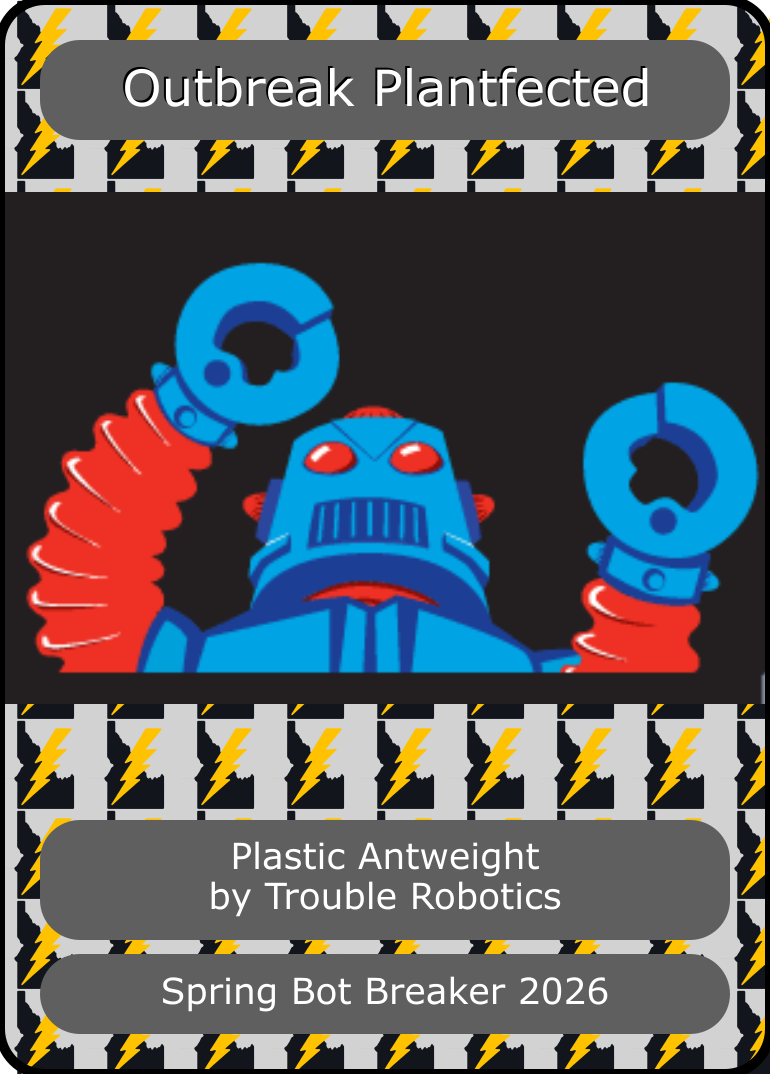
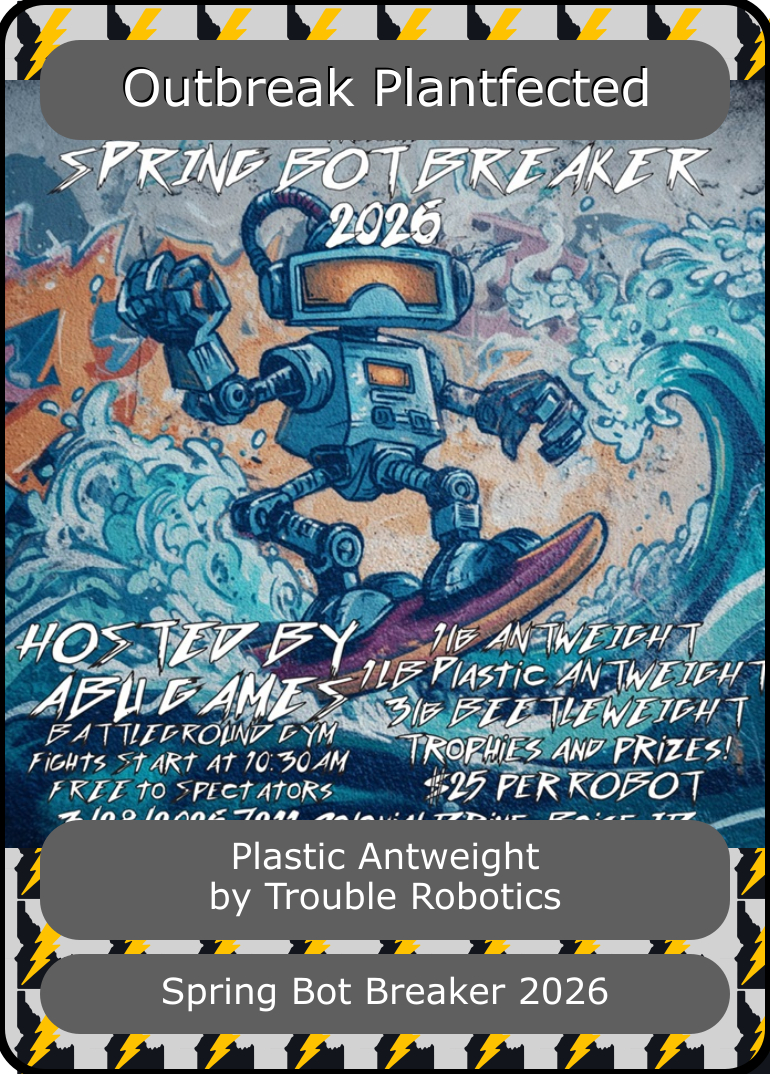
sbb

diff --git a/cards/cards/IRCL_TTDB.md b/cards/cards/IRCL_TTDB.md
@@ -199,7 +199,7 @@ relates:has_bot>@LAT-30LON30,has_bot>@LAT-15LON70,has_bot>@LAT0LON110,has_bot>@L
 - Card image: ![Black Talon](Spring_Bot_Breaker_2026/Black_Talon.png)
 - Weight class: Full Combat Antweight
 - Team: Trouble Robotics
-- Image: ![Black Talon](unknown)
+- Image: ![Black Talon](https://ircl-io.github.io/cards/cards/Spring_Bot_Breaker_2026/IRCL_SBB2026-2.jpg)
 
 ---
 
@@ -209,7 +209,7 @@ relates:has_bot>@LAT-30LON30,has_bot>@LAT-15LON70,has_bot>@LAT0LON110,has_bot>@L
 - Card image: ![Ghost Viper](Spring_Bot_Breaker_2026/Ghost_Viper.png)
 - Weight class: Full Combat Antweight
 - Team: Team Dairy
-- Image: ![Ghost Viper](unknown)
+- Image: ![Ghost Viper](https://ircl-io.github.io/cards/cards/Spring_Bot_Breaker_2026/IRCL_SBB2026-2.jpg)
 
 ---
 
@@ -291,7 +291,7 @@ relates:has_bot>@LAT-30LON30,has_bot>@LAT-15LON70,has_bot>@LAT0LON110,has_bot>@L
 - Card image: ![Outbreak Plantfected](Spring_Bot_Breaker_2026/Outbreak_Plantfected.png)
 - Weight class: Plastic Antweight
 - Team: Trouble Robotics
-- Image: ![Outbreak Plantfected](https://www.robotcombatevents.com/assets/RCELogo-3383ca77f76e5be2b7755ea9d0c464aea25a87d8c9f2a4cffd63643392f59fe7.png)
+- Image: ![Outbreak Plantfected](https://ircl-io.github.io/cards/cards/Spring_Bot_Breaker_2026/IRCL_SBB2026-2.jpg)
 
 ---
 
@@ -302,7 +302,7 @@ relates:has_bot>@LAT-30LON30,has_bot>@LAT-15LON70,has_bot>@LAT0LON110,has_bot>@L
 - Weight class: Beetleweight
 - Team: Barnhouse Robotics
 - URL: https://www.robotcombatevents.com/groups/2796/resources/22541
-- Image: ![Doomflower](https://www.robotcombatevents.com/assets/RCELogo-3383ca77f76e5be2b7755ea9d0c464aea25a87d8c9f2a4cffd63643392f59fe7.png)
+- Image: ![Doomflower](https://ircl-io.github.io/cards/cards/Spring_Bot_Breaker_2026/IRCL_SBB2026-2.jpg)
 
 ---
 
